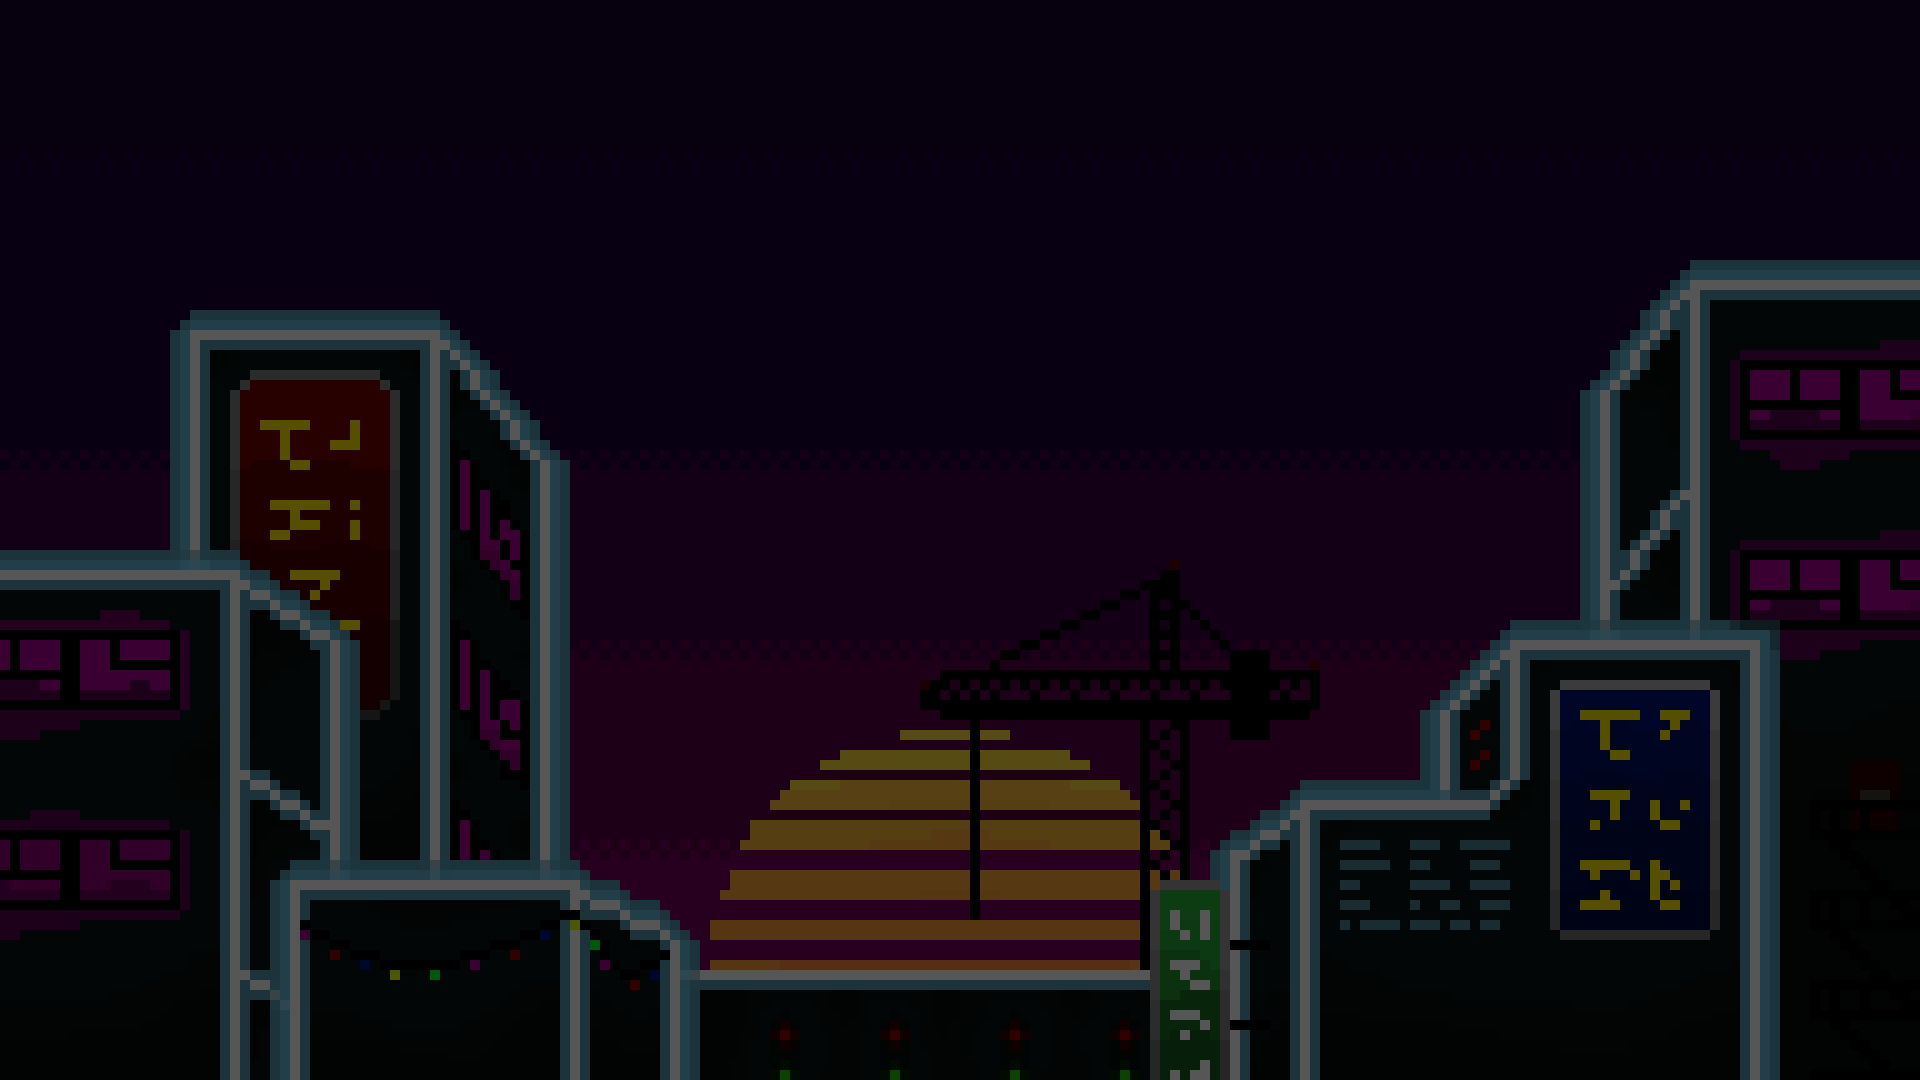
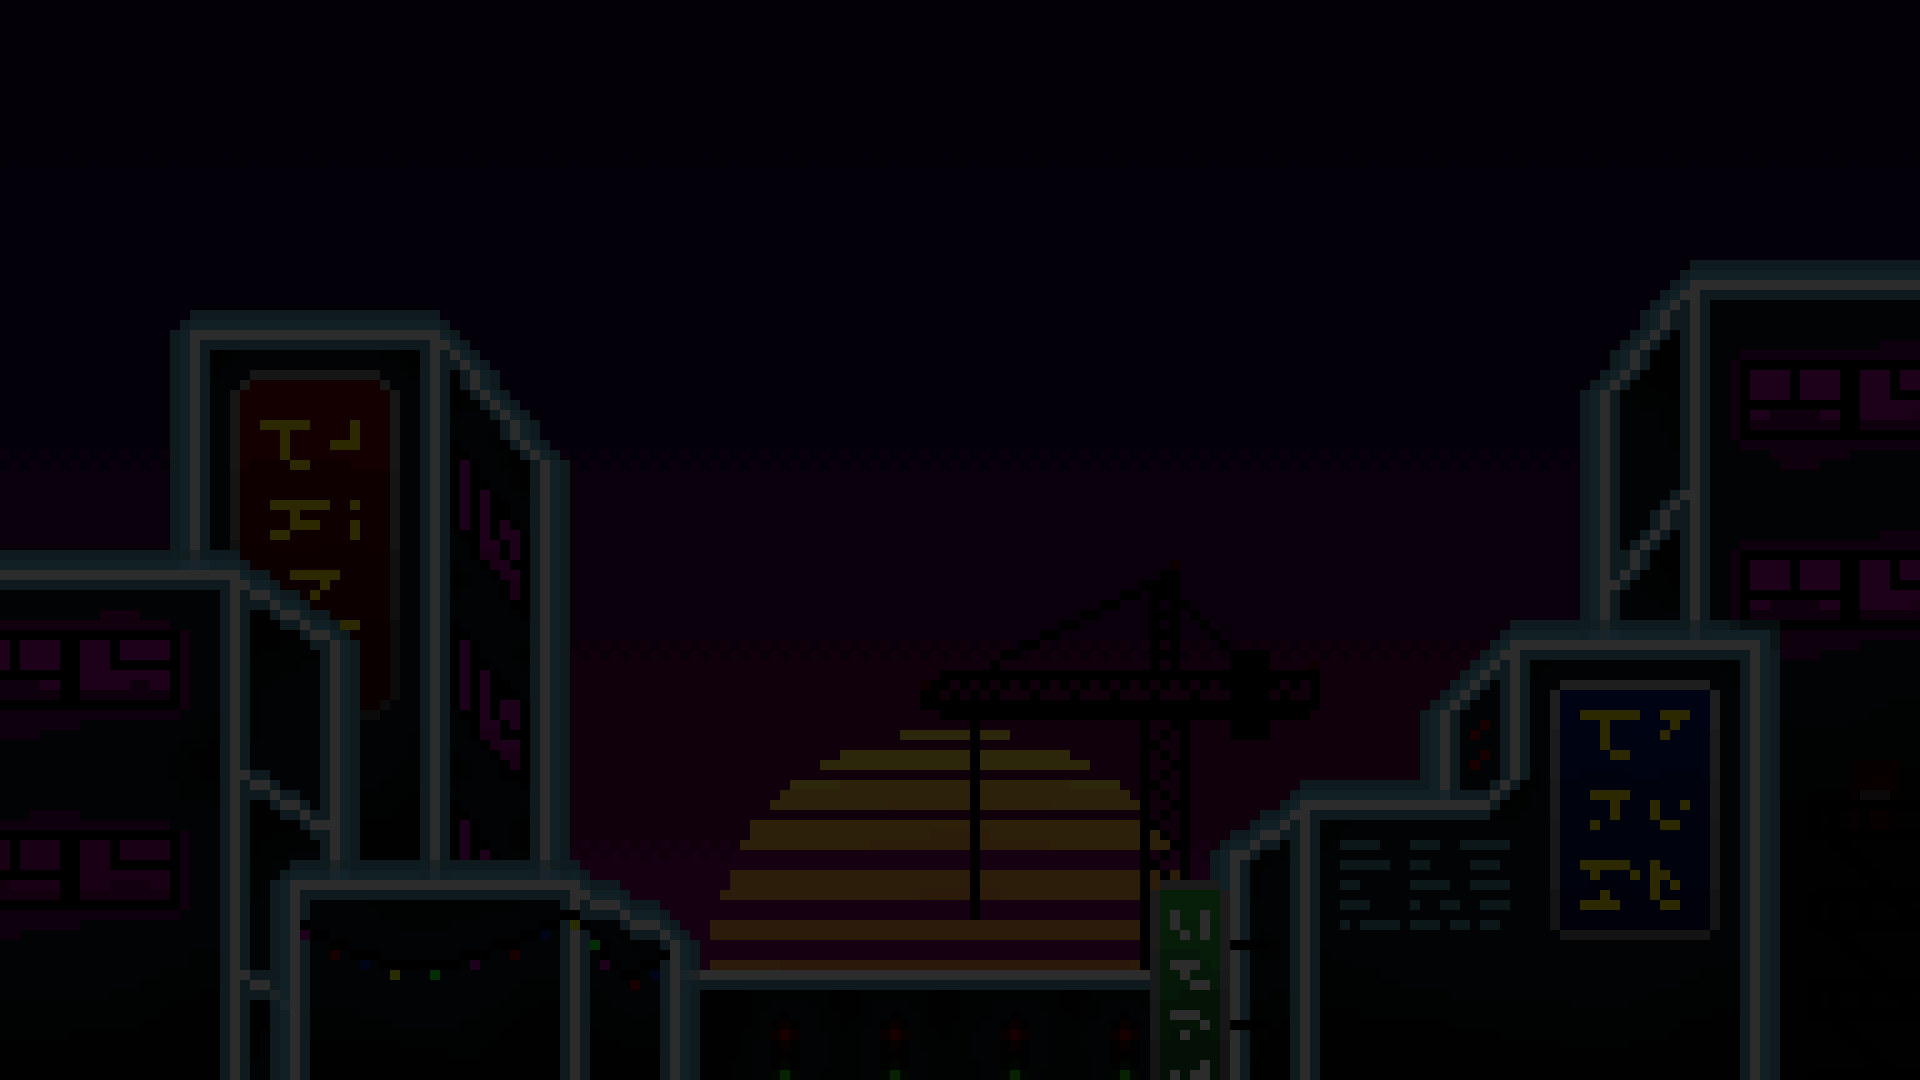
Changed Profile Picture

diff --git a/PortfolioWebsite/AboutMe.html b/PortfolioWebsite/AboutMe.html
@@ -35,7 +35,7 @@
     <header class = "subHeader"></header>
     <main>
         <section>
-            <img src="Img/Screenshot 2024-04-10 120127.png" alt="t" class = "largeProject">
+            <img src="Img/profielLarge.png" alt="t" class = "largeProject">
                 <h3>
                     Gerben Prins
                 </h3>
